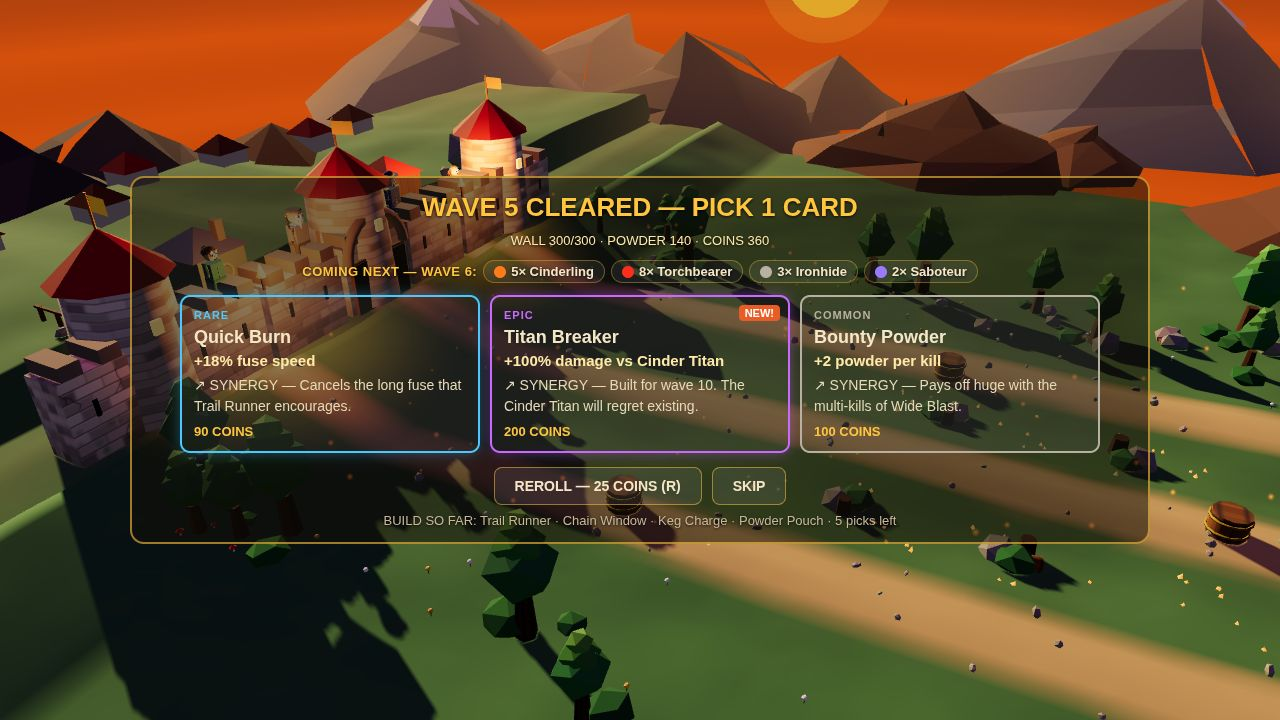
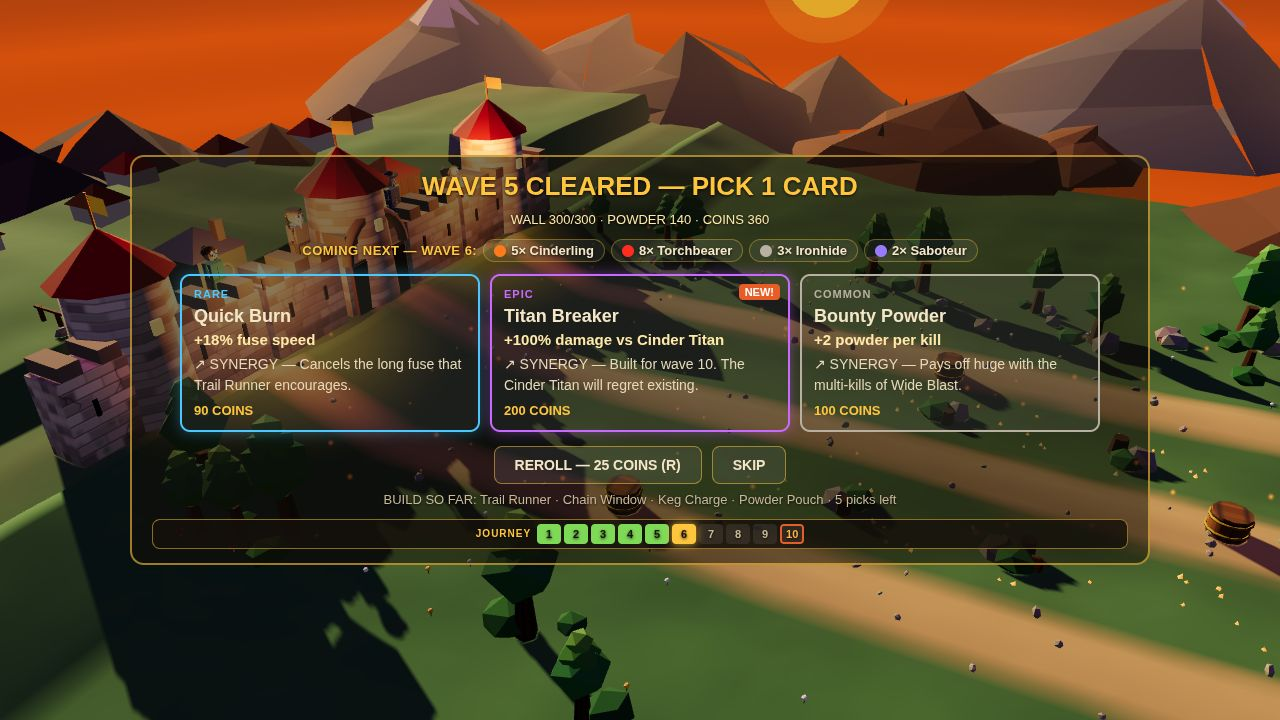
R6C: giant CHAINFIRE! event word + Titan plate/glow/scorch path + draft journey strip + sound pulse (Mark 15:11 WIB, items P1/P2/P10/P9)
- P1 event word: giant ember-red CHAINFIRE! at the x8 peak (64vh, 96px),
  clear of CHAIN x8!/VOLLEY!/SQUAD x4/Titan/beams; second 320px carrier,
  legible in under 1s at 320px
- P2 Titan: nameplate enlarged (195px, 14px name, 12px ember-gradient HP
  bar, darker plate, 2px border) — 230px wrapped the top bar, probed chip
  widths and cut to 195px (11px slack, bar back to one row); gold halo
  sprite + hotter core (3.2->3.8) + ember seams (2.6->3.0); scorch path
  along z=0 from the wall to the Titan's feet (probe: boss at (33,0));
  Titan NOT re-staged
- P10 draft: JOURNEY 1-10 strip (done green, current gold, 10 boss-marked)
  reusing the action WAVES strip language
- P9 sound: gold music-note badge on SOUND button, pulsing while the fuse
  burns (driven by frozen world.time — deterministic); supporting evidence
  only, real proof is Rizal's playtest
- sim.js untouched; staged numbers exact (BEST 69,650 / action 59,550 /
  draft 21,050 / results S 69,650); determinism MATCH 5/5; 0 errors

Changed region(s): [[0.0938, 0.2139, 0.9062, 0.7944], [0.8125, 0.2139, 0.9062, 0.275]]

diff --git a/game/index.html b/game/index.html
@@ -145,13 +145,19 @@
   .chain-progress { width: 100%; height: 4px; background: rgba(255,255,255,0.15); border-radius: 2px; overflow: hidden; }
   .chain-progress-fill { height: 100%; background: #ffb347; width: 0%; }
   .chain-progress-fill.chain-progress-max { background: #ffd23f; box-shadow: 0 0 6px #ffd23f; }
-  .boss-bar { width: 170px; background: rgba(40, 10, 8, 0.82); border: 1px solid rgba(255, 93, 38, 0.7); border-radius: 6px; padding: 3px 6px; color: #f5e6c8; }
-  .boss-name { font-size: 11px; font-weight: 900; letter-spacing: 0.5px; color: #ffb347; }
-  .boss-phase { color: #ff7a1a; font-size: 10px; font-weight: bold; white-space: nowrap; }
-  .boss-bar-row { display: flex; align-items: center; gap: 5px; margin-top: 2px; }
-  .boss-bar-track { flex: 1; height: 8px; background: rgba(255,255,255,0.15); border-radius: 4px; overflow: hidden; }
-  .boss-bar-fill { height: 100%; background: #ff4d3d; width: 100%; }
-  .boss-hp { font-size: 10px; font-weight: bold; white-space: nowrap; }
+  /* ROUND 6 AGENT C (P2): Titan nameplate, enlarged + high-contrast —
+     dark plate, bright ember bar. The Titan reads where it stands
+     (~91% across); the plate is the eye's anchor to it. Width 195px:
+     the top bar's measured budget at 1280px is 1260 (left 390 + mid +
+     right 648 + gaps 16) — 230px wrapped GRADE S + FUSE to a second
+     row, 195px keeps the bar on one row with 11px slack. */
+  .boss-bar { width: 195px; background: rgba(24, 6, 4, 0.92); border: 2px solid rgba(255, 120, 40, 0.95); border-radius: 6px; padding: 4px 8px; color: #f5e6c8; }
+  .boss-name { font-size: 14px; font-weight: 900; letter-spacing: 0.5px; color: #ffb347; }
+  .boss-phase { color: #ff7a1a; font-size: 11px; font-weight: bold; white-space: nowrap; }
+  .boss-bar-row { display: flex; align-items: center; gap: 5px; margin-top: 3px; }
+  .boss-bar-track { flex: 1; height: 12px; background: rgba(0, 0, 0, 0.55); border-radius: 6px; overflow: hidden; }
+  .boss-bar-fill { height: 100%; background: linear-gradient(90deg, #ff6a00, #ff2d1a); width: 100%; }
+  .boss-hp { font-size: 12px; font-weight: bold; white-space: nowrap; }
   /* ROUND 3 AGENT D — threat-queue panel (item 4) + event banner (item 1).
      Both live inside #hud, so they only show in play mode. The panel sits
      top-right below the HUD. ROUND 4 AGENT C (item 5) compacted it and
@@ -186,6 +192,12 @@
   .threat-vals { font-weight: bold; }
   .threat-dot { width: 9px; height: 9px; border-radius: 50%; display: inline-block; margin-right: 2px; }
   .event-banner { position: absolute; top: 38vh; left: 50%; transform: translateX(-50%); font-size: 56px; font-weight: 900; letter-spacing: 3px; color: #ffd23f; text-shadow: 0 0 18px rgba(255, 140, 30, 0.8), 0 3px 0 #7a4a00, 0 2px 8px rgba(0,0,0,0.8); white-space: nowrap; pointer-events: none; z-index: 7; }
+  /* ROUND 6 AGENT C (P1): giant event word at the x8 peak — PEONY SKY's
+     FULL BLOOM! technique, the 320px carrier. Sits in the open lower-mid
+     field (64vh), clear of the CHAIN x8! banner (38vh), VOLLEY! / SQUAD
+     labels, the Titan (~91% across) and the defenders' beams (upper
+     left). Same 3s window as the CHAIN x8! banner (ui.js). */
+  .event-word { position: absolute; top: 64vh; left: 50%; transform: translateX(-50%); font-size: 96px; font-weight: 900; letter-spacing: 4px; color: #ff5a1f; text-shadow: 0 0 24px rgba(255, 90, 20, 0.75), 0 4px 0 #5a1a00, 0 3px 10px rgba(0,0,0,0.85); white-space: nowrap; pointer-events: none; z-index: 7; }
   /* ROUND 3 AGENT D — title: how-to cards with diagrams (item 10) +
      THREAT → ANSWER roster (item 5). */
   .how-strip { display: flex; gap: 8px; justify-content: center; margin-bottom: 8px; }
@@ -209,6 +221,18 @@
   .coming-next-title { color: #ffc53d; font-weight: 900; letter-spacing: 0.5px; }
   .coming-next-chip { display: flex; align-items: center; gap: 5px; background: rgba(255,255,255,0.06); border: 1px solid rgba(255,197,61,0.35); border-radius: 20px; padding: 3px 10px; font-weight: bold; color: #f5e6c8; }
   .coming-next-boss { border-color: #e85d26; color: #ffb347; }
+  /* ROUND 6 AGENT C (P10): 10-wave journey strip on the draft screen —
+     the action shot's WAVES strip language (numbered segments: done
+     green, current gold, wave 10 marked boss). Closes the
+     GLASSWRIGHT/PEONY road-map gap. */
+  .draft-journey { display: flex; gap: 3px; align-items: center; justify-content: center; margin-top: 12px; background: rgba(20, 16, 10, 0.82); border: 1px solid rgba(255, 197, 61, 0.5); border-radius: 8px; padding: 4px 6px; }
+  .wave-seg-boss { border: 2px solid #e85d26; color: #ffb347; }
+  /* ROUND 6 AGENT C (P9): visible audio pulse on the SOUND button — a ♪
+     badge that pulses (driven by frozen world.time in ui.js, so the
+     staged shot is deterministic) while the fuse is burning and sound is
+     on. Supporting evidence only; the real proof is Rizal's playtest. */
+  .ctl-btn { position: relative; }
+  .sound-note { position: absolute; top: -10px; right: -8px; width: 20px; height: 20px; border-radius: 50%; background: #ffc53d; color: #1a120c; font-size: 13px; font-weight: 900; display: flex; align-items: center; justify-content: center; box-shadow: 0 0 10px rgba(255, 197, 61, 0.9); pointer-events: none; }
   /* ROUND 3 AGENT D — results: golden-hour gradient backdrop + NEW BEST
      badge (item 8). */
   .results-wrap { background: linear-gradient(160deg, rgba(74, 38, 10, 0.82), rgba(46, 22, 52, 0.78)); }
@@ -229,6 +253,8 @@
        the bar on a phone; they return at desktop widths. */
     .minimap-wrap, .wave-strip { display: none; }
     .event-banner { font-size: 28px; letter-spacing: 1px; }
+    /* ROUND 6 AGENT C (P1): the event word stays in-frame on a phone. */
+    .event-word { font-size: 40px; letter-spacing: 2px; top: 60vh; }
     .boss-bar { width: 140px; }
   }
   /* Results panel compaction (must fit 720px viewport; was 918px tall):

diff --git a/game/src/ui.js b/game/src/ui.js
@@ -158,6 +158,12 @@ export class UI {
     this.eventBanner = el('div', 'event-banner', '');
     this.eventBanner.style.display = 'none';
     hud.append(this.eventBanner);
+    // ROUND 6 AGENT C (P1): giant event word at the x8 peak ("CHAINFIRE!").
+    // Shown in the same 3s window as the CHAIN x8! banner (see
+    // updateEventBanner). Also inside #hud, so play mode only.
+    this.eventWord = el('div', 'event-word', 'CHAINFIRE!');
+    this.eventWord.style.display = 'none';
+    hud.append(this.eventWord);
   }
 
   _buildBottom() {
@@ -186,7 +192,17 @@ export class UI {
     const ctl = el('div', 'ctl-box');
     this.pauseBtn = el('button', 'ctl-btn', 'PAUSE (P)');
     this.pauseBtn.addEventListener('click', () => this.cb.onPause());
-    this.muteBtn = el('button', 'ctl-btn', 'SOUND ON (M)');
+    // ROUND 6 AGENT C (P9): the SOUND button carries its label in a span
+    // (so setMuted never wipes the ♪ badge) + a ♪ badge that pulses while
+    // audio is live (driven by frozen world.time in update() — the staged
+    // shot stays deterministic). Badge is supporting evidence only; the
+    // real proof is Rizal hearing the fuse hiss + chain blasts on his phone.
+    this._muted = false;
+    this.muteBtn = el('button', 'ctl-btn');
+    this.muteLabel = el('span', '', 'SOUND ON (M)');
+    this.muteNote = el('span', 'sound-note', '♪');
+    this.muteNote.style.display = 'none';
+    this.muteBtn.append(this.muteLabel, this.muteNote);
     this.muteBtn.addEventListener('click', () => this.cb.onMute());
     this.helpBtn = el('button', 'ctl-btn', 'HELP (H)');
     this.helpBtn.addEventListener('click', () => this.cb.onHelp());
@@ -310,6 +326,20 @@ export class UI {
     this.lightBtn.classList.toggle('light-ready', !!(world.trail && world.trail.state === 'armed'));
     this.lightBtn.disabled = !(world.trail && world.trail.state === 'armed');
     this.pauseBtn.textContent = paused ? 'RESUME (P)' : 'PAUSE (P)';
+    // ROUND 6 AGENT C (P9): visible audio pulse on the SOUND button.
+    // The ♪ badge shows + pulses while the fuse is burning and sound is
+    // on. Pulse is a pure function of frozen world.time, so the staged
+    // shot is byte-identical across runs. Supporting evidence only — the
+    // real proof is Rizal hearing the fuse hiss + chain blasts on his phone.
+    const audioLive = !this._muted && !!(world.trail && world.trail.state === 'burning');
+    if (audioLive) {
+      const p = Math.sin(world.time * 5);
+      this.muteNote.style.display = '';
+      this.muteNote.style.opacity = (0.7 + 0.3 * p).toFixed(3);
+      this.muteNote.style.transform = `scale(${(1 + 0.18 * p).toFixed(3)})`;
+    } else {
+      this.muteNote.style.display = 'none';
+    }
     // ROUND 4 AGENT C (item 14): the selected powder reads as a choice —
     // filled button + a ✓ on the label (the fill alone was easy to miss
     // against the bright world).
@@ -503,6 +533,11 @@ export class UI {
     } else {
       this.eventBanner.style.display = 'none';
     }
+    // ROUND 6 AGENT C (P1): the giant event word rides the CHAIN x8!
+    // banner — same 3s window, same freeze moment. It is a second 320px
+    // carrier next to "CHAIN x8!", not a replacement for it.
+    const showWord = !!(this._banner && this._banner.text === 'CHAIN x8!' && world.time - this._banner.born < 3);
+    this.eventWord.style.display = showWord ? '' : 'none';
   }
 
   bark(kind, seed) {
@@ -678,6 +713,20 @@ export class UI {
     wrap.append(actions);
     const build = el('div', 'build-so-far', `BUILD SO FAR: ${world.pickedCards.length > 0 ? world.pickedCards.map((id) => (CARD_DEFS.find((c) => c.id === id) || {}).name).join(' · ') : '—'} · ${9 - world.pickedCards.length} picks left`);
     wrap.append(build);
+    // ROUND 6 AGENT C (P10): 10-wave journey strip — the run's road at a
+    // glance, reusing the action shot's WAVES strip language (numbered
+    // segments: done green, current gold, wave 10 marked boss). A pure
+    // function of world.wave, so the staged draft shot is deterministic.
+    const journey = el('div', 'draft-journey');
+    journey.append(el('span', 'wave-strip-label', 'JOURNEY'));
+    for (let i = 1; i <= 10; i += 1) {
+      const cls = ['wave-seg'];
+      if (i < world.wave) cls.push('done');
+      if (i === world.wave) cls.push('current');
+      if (i === 10) cls.push('wave-seg-boss');
+      journey.append(el('div', cls.join(' '), String(i)));
+    }
+    wrap.append(journey);
     screen.append(wrap);
   }
 
@@ -822,6 +871,9 @@ export class UI {
   }
 
   setMuted(muted) {
-    this.muteBtn.textContent = muted ? 'SOUND OFF (M)' : 'SOUND ON (M)';
+    // ROUND 6 AGENT C (P9): label lives in its own span so this never
+    // wipes the ♪ badge; _muted drives the badge in update().
+    this._muted = !!muted;
+    if (this.muteLabel) this.muteLabel.textContent = muted ? 'SOUND OFF (M)' : 'SOUND ON (M)';
   }
 }

diff --git a/game/src/render3d.js b/game/src/render3d.js
@@ -499,6 +499,48 @@ export class Renderer {
     this.scorchedKegs = new Set();
     this.scorchedWall = new Set();
 
+    // ROUND 6 AGENT C (P2): Titan halo + scorch path. The Titan reads
+    // where it stands (~91% across, render-side only — the round-5
+    // titan-hunt proved moving it breaks the staged numbers). A warm
+    // additive halo around the Titan + a dark scorch scar on the ground
+    // from the fort wall to the Titan's feet, leading the eye to it.
+    // Halo is GOLD (0xffb040), not orange: gold reads against the
+    // Titan's orange iron; orange-on-orange washed out (first proof).
+    // The Titan's lane at the freeze is z=0 (probe: boss at (33, 0));
+    // the powder trail runs at z=14.5, so the two never merge. Both are
+    // gated on boss.alive in the boss update block — hidden on
+    // title/draft/results. Static geometry, no rng, no clock.
+    this._titanGlow = new THREE.Sprite(new THREE.SpriteMaterial({ map: this.glowTex, color: 0xffb040, transparent: true, opacity: 0.65, depthWrite: false, blending: THREE.AdditiveBlending }));
+    this._titanGlow.scale.set(16, 16, 1);
+    this._titanGlow.visible = false;
+    this.scene.add(this._titanGlow);
+    this._titanScorch = new THREE.Group();
+    {
+      const pathGeo = new THREE.CircleGeometry(1, 20);
+      const pathMat = new THREE.MeshBasicMaterial({ color: 0x241610, transparent: true, opacity: 0.5, depthWrite: false });
+      for (let i = 0; i < 16; i += 1) {
+        const x = -40 + (73 * i) / 15;
+        const d = new THREE.Mesh(pathGeo, pathMat);
+        d.rotation.x = -Math.PI / 2;
+        d.scale.set(2.4, 2.4, 1);
+        d.position.set(x, terrainHeight(x, 0) + 0.06, 0);
+        this._titanScorch.add(d);
+      }
+      const fleckGeo = new THREE.CircleGeometry(1, 12);
+      const fleckMat = new THREE.MeshBasicMaterial({ color: 0xff7a1a, transparent: true, opacity: 0.6, depthWrite: false, blending: THREE.AdditiveBlending });
+      for (let i = 0; i < 8; i += 1) {
+        const x = -36 + i * 9;
+        const fz = i % 2 ? 1.3 : -1.3;
+        const f = new THREE.Mesh(fleckGeo, fleckMat);
+        f.rotation.x = -Math.PI / 2;
+        f.scale.set(0.5, 0.5, 1);
+        f.position.set(x, terrainHeight(x, fz) + 0.08, fz);
+        this._titanScorch.add(f);
+      }
+    }
+    this._titanScorch.visible = false;
+    this.scene.add(this._titanScorch);
+
     // Sim particles -> instanced spheres.
     this.particleMesh = new THREE.InstancedMesh(
       new THREE.SphereGeometry(0.16, 6, 5),
@@ -1909,8 +1951,16 @@ export class Renderer {
       this.bossMesh.group.position.set(boss.x, terrainHeight(boss.x, boss.z), boss.z);
       this.bossMesh.group.rotation.y = 0; // models face -x by default
       this.bossMesh.setPose(boss.defeated ? 'dead' : (boss.state === 'attack' ? 'attack' : 'walk'), world.time, { damageState });
+      // ROUND 6 AGENT C (P2): Titan halo + scorch path — only while the
+      // Titan lives (wave-10 combat). Hidden on title/draft/results and
+      // after the win, so only the action shot changes.
+      this._titanGlow.visible = !!boss.alive;
+      if (boss.alive) this._titanGlow.position.set(boss.x - 0.8, terrainHeight(boss.x, boss.z) + 5.5, boss.z);
+      this._titanScorch.visible = !!boss.alive;
     } else if (this.bossMesh) {
       this.bossMesh.group.visible = false;
+      this._titanGlow.visible = false;
+      this._titanScorch.visible = false;
     }
     // Defenders on the wall.
     const phase = world.phase;

diff --git a/game/src/models.js b/game/src/models.js
@@ -469,8 +469,8 @@ export function buildCharacter(kind, opts = {}) {
     const iron = std(0x7a5238, { rough: 0.6, metal: 0.15 });
     const ironDark = std(0x54382a, { rough: 0.75, metal: 0.15 });
     const brass = std(0xc9a227, { rough: 0.45, metal: 0.6 });
-    const emberMat = std(0xff7a1a, { emissive: 0xff5a00, ei: 2.6 });
-    coreMat = std(0xff7a1a, { emissive: 0xff5a00, ei: 3.2, rough: 0.4 });
+    const emberMat = std(0xff7a1a, { emissive: 0xff5a00, ei: 3.0 });
+    coreMat = std(0xff7a1a, { emissive: 0xff5a00, ei: 3.8, rough: 0.4 });
 
     legL = piv(0, 1.0 * s, 0.55 * s);
     cyl(legL, 0.4 * s, 0.44 * s, 0.9 * s, iron, 0, -0.5 * s, 0);
@@ -485,11 +485,13 @@ export function buildCharacter(kind, opts = {}) {
     // Furnace core: glowing circle on the chest front (-x) + brass ring.
     // R5B: bigger (0.34s -> 0.44s) + hotter (flicker base 2.2 -> 3.2) so
     // the furnace reads at 320px, not just at close-up.
+    // ROUND 6 AGENT C (P2): hotter still (3.2 -> 3.8) — the Titan's rim /
+    // ember must read against the darkened field at 320px.
     const core = mesh(inner, new THREE.CircleGeometry(0.44 * s, 20), coreMat, -0.67 * s, 1.8 * s, 0);
     core.rotation.y = -Math.PI / 2;
     const ring = mesh(inner, new THREE.TorusGeometry(0.48 * s, 0.07 * s, 8, 24), brass, -0.67 * s, 1.8 * s, 0);
     ring.rotation.y = Math.PI / 2;
-    flicker.push({ obj: core, kind: 'emissive', mat: coreMat, base: 3.2, amp: 0.25, speed: 5, phase: rng() * 6 });
+    flicker.push({ obj: core, kind: 'emissive', mat: coreMat, base: 3.8, amp: 0.25, speed: 5, phase: rng() * 6 });
     parts.core = core;
     // Damage cracks (hidden until damageState >= 1).
     const crackMat = std(0x0d0d0d, { rough: 1 });
